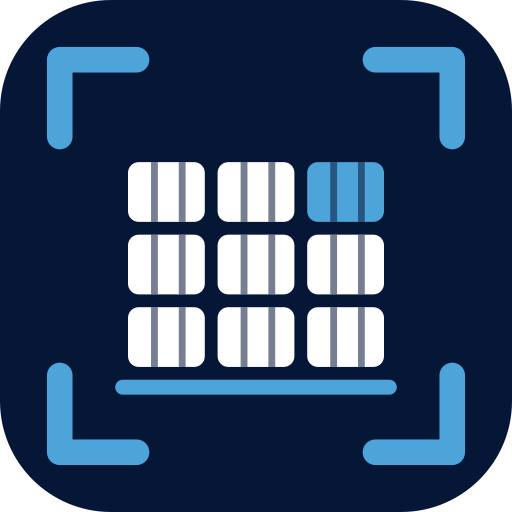
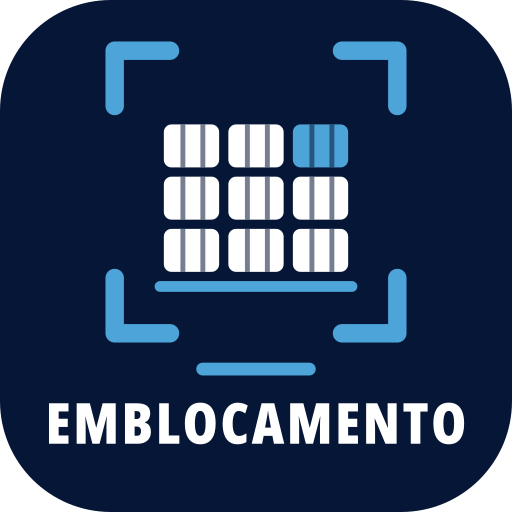
Ícone do app com o nome embaixo do visor (v1.12.2)
Claude-Session: https://claude.ai/code/session_01Bjf9Eyaf2dKr3WrvPdAx1b

diff --git a/index.html b/index.html
@@ -175,7 +175,7 @@ body.mvon{overflow:hidden}
 // Carrega o "pacote" gerado no app principal, confere cada fardinho lido
 // contra o lote do box, conta e devolve as leituras em arquivo.
 // ======================================================================
-const VER="1.12.1";
+const VER="1.12.2";
 // leitura sem teclado na tela (padrão): o campo oculto recebe o foco como "somente leitura" (o Android não abre o teclado),
 // logo depois volta a aceitar o texto do leitor e o app pede ao Chrome para esconder o teclado. Desliga no Menu.
 const KB_LS="emb_leitura";const semTeclado=()=>{try{return localStorage.getItem(KB_LS)!=="campo"}catch(e){return true}};

diff --git a/sw.js b/sw.js
@@ -1,5 +1,5 @@
 // Service worker: deixa o app e o leitor de códigos disponíveis sem internet
-const CACHE="emblocamento-v43";
+const CACHE="emblocamento-v44";
 const SHELL=["./","./index.html","./manifest.webmanifest","./icon-192.png","./icon-512.png","./icon-180.png","./logo.png","./icon-maskable-192.png","./icon-maskable-512.png"];
 const EXT=[];
 self.addEventListener("install",e=>{e.waitUntil((async()=>{const c=await caches.open(CACHE);await c.addAll(SHELL);
